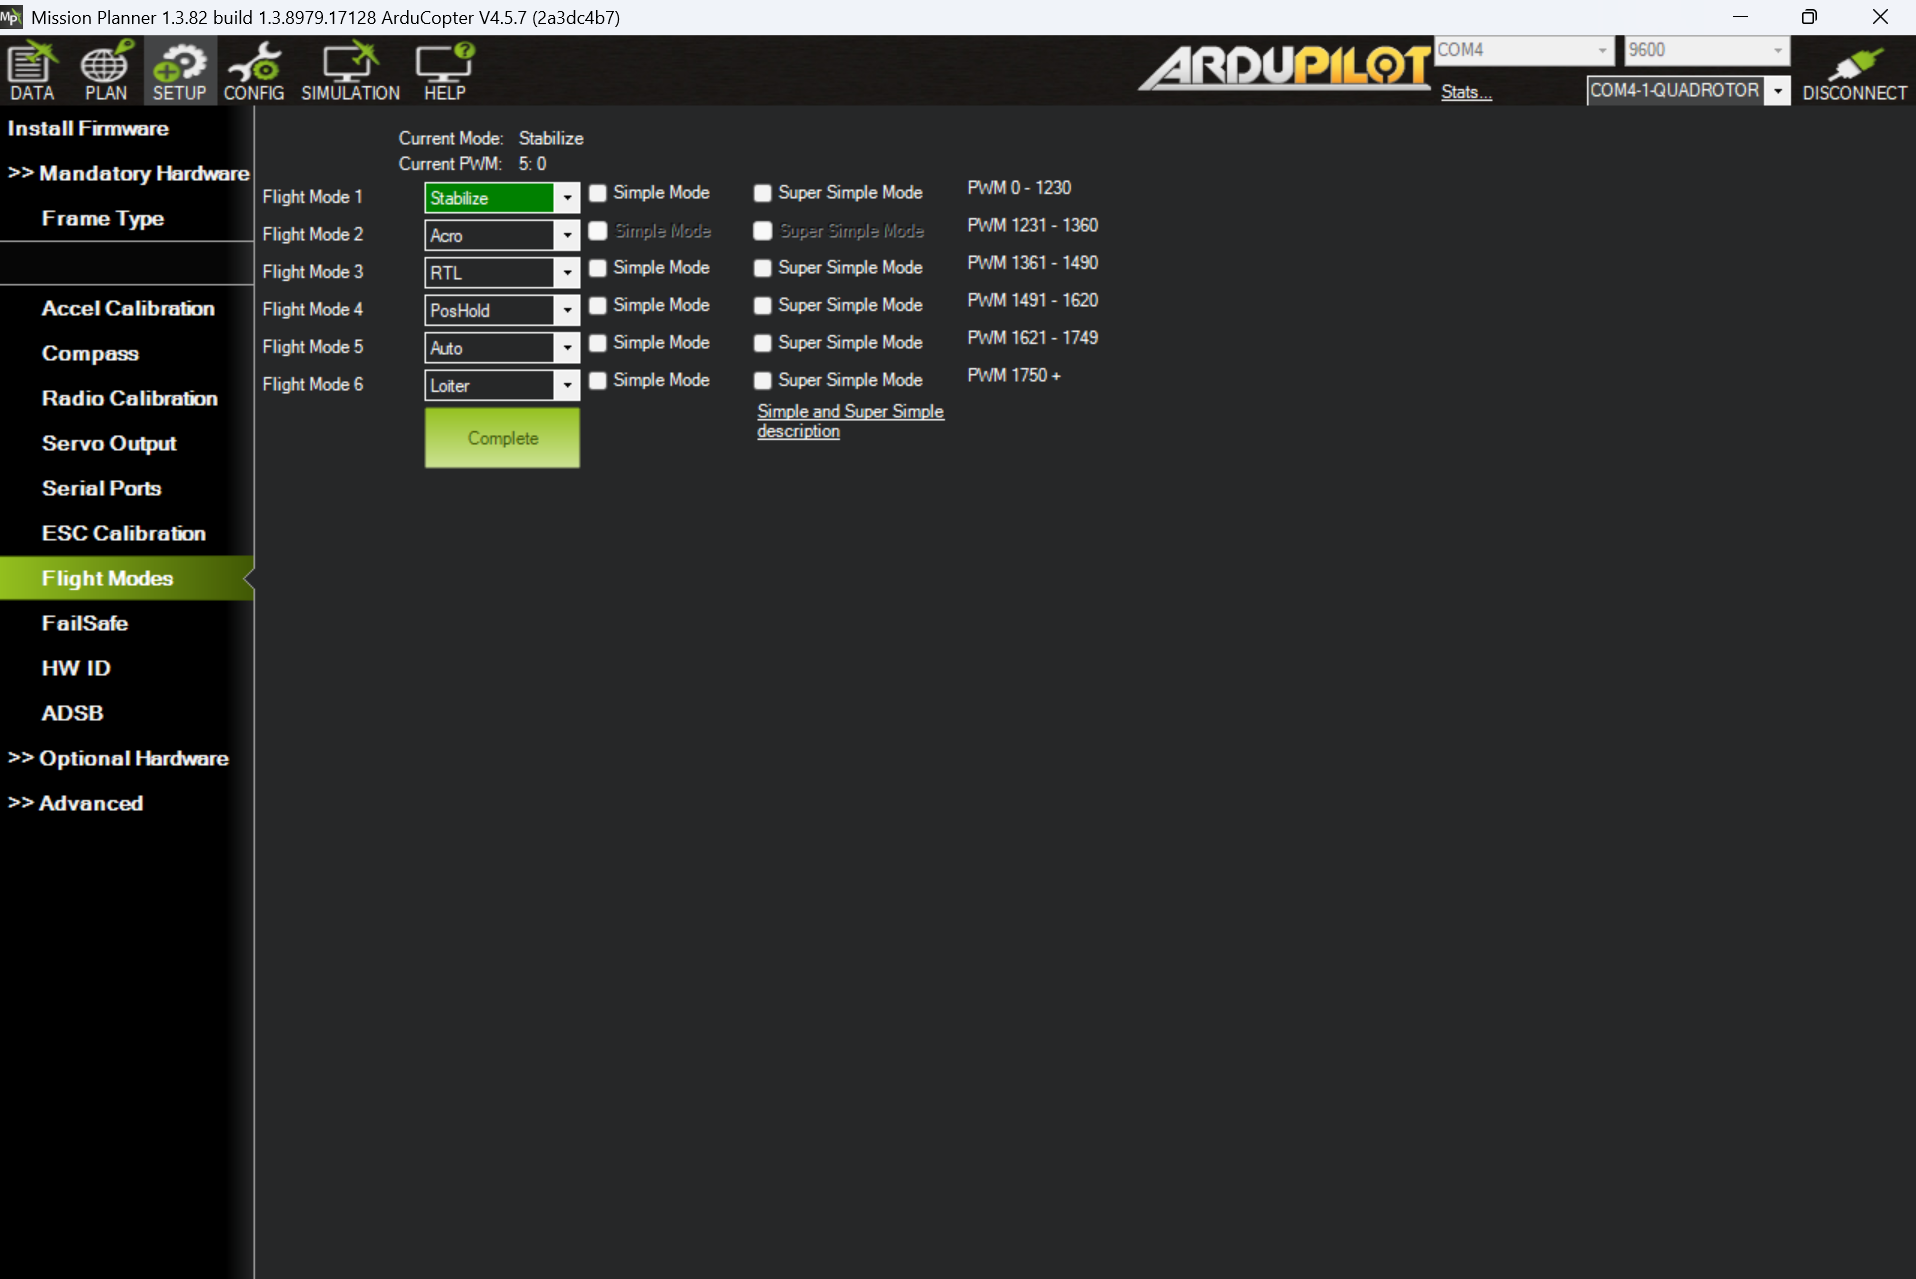
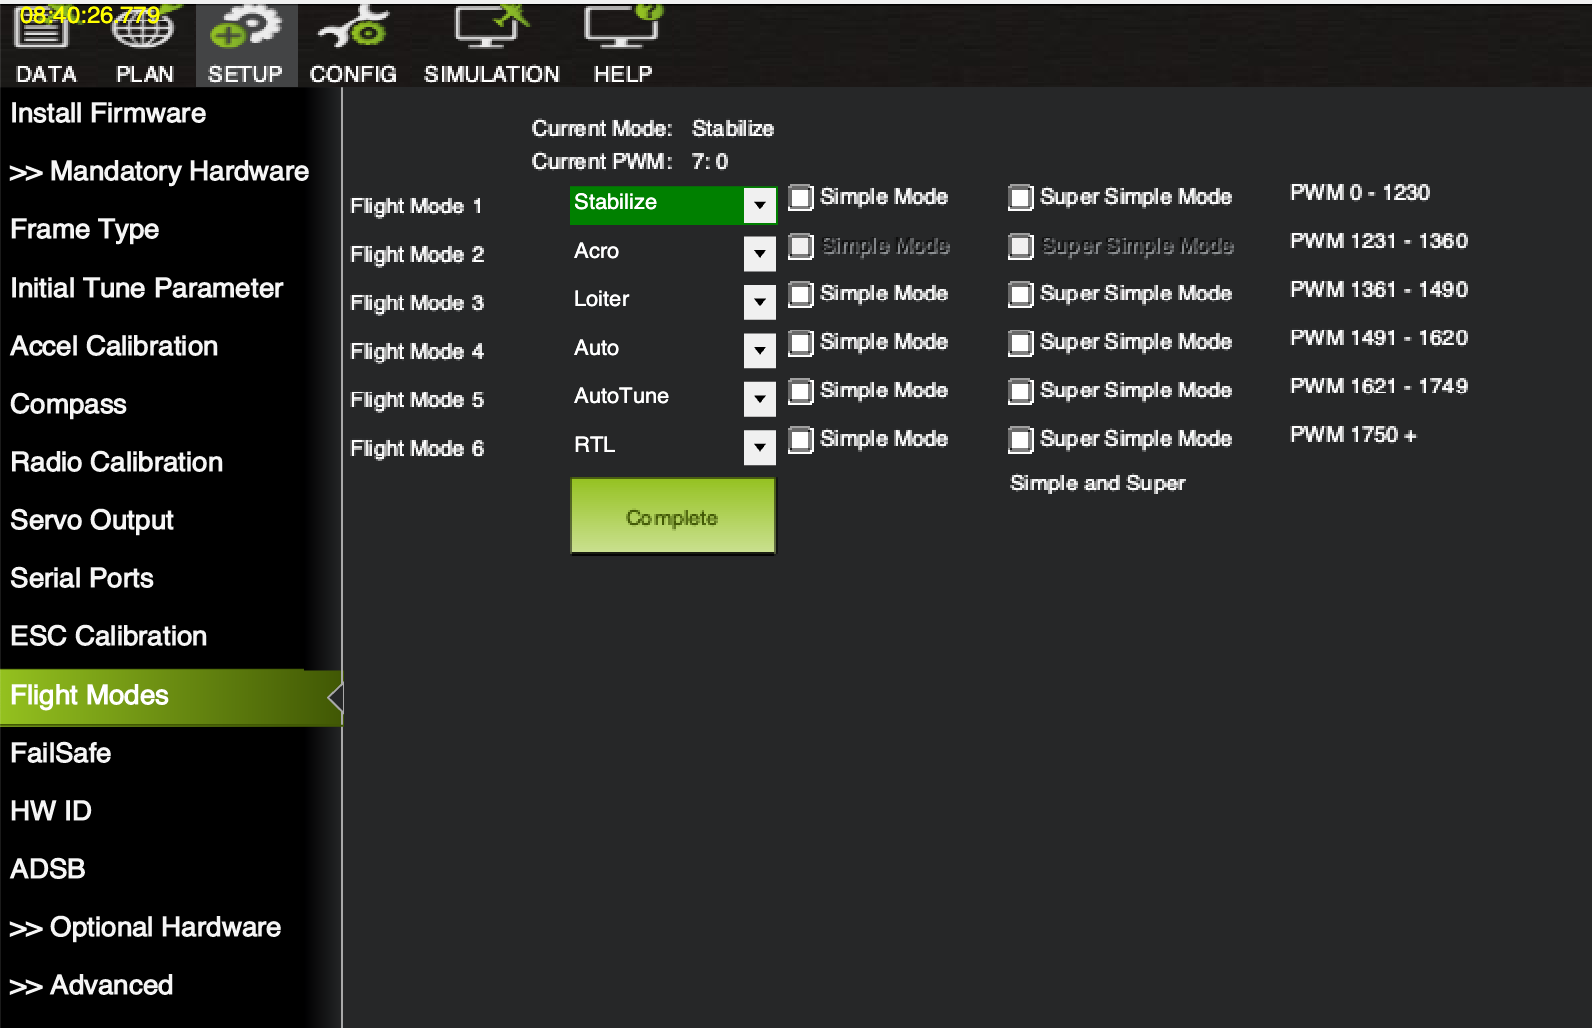
change switch config

diff --git a/ardupilot/switch-config.md b/ardupilot/switch-config.md
@@ -10,33 +10,33 @@ Channel 7 :
 2pos off
 1. Takeoff
 2. FBWA
-3. RTL
+3. Loiter
 
 2pos on
 4. Mission / Autotune
 5. Manual
-6. Loiter
+6. RTL
 
 ## VTOL ##
 
 2pos off
 1. QLoiter
 2. FBWA
-3. QRTL
+3. Loiter
 
 2pos on
 4. Mission / Autotune
 5. Manual
-6. Loiter
+6. QRTL
 
 ## Copter ##
 
 2pos off
 1. Stabilize
 2. Acro
-3. RTL
+3. Loiter
 
 2pos on
-4. PosHold
-5. Auto (Mission) / Autotune
-6. Loiter
+4. Auto (Mission)
+5. sAutotune
+6. RTL

diff --git a/ardupilot/nazgul/settings.md b/ardupilot/nazgul/settings.md
@@ -58,10 +58,10 @@ Dokumentasi FC ESC
 
     * 1 : Stabilize
     * 2 : Acro
-    * 3 : Return To Launch
-    * 4 : Position Hold
-    * 5 : Auto (Mission) / AutoTune
-    * 6 : Loiter
+    * 3 : Loiter
+    * 4 : Auto / Mission
+    * 5 : AutoTune
+    * 6 : Return to Launch
 
     ![Flight Modes](img/06-flight-modes.png)
 
